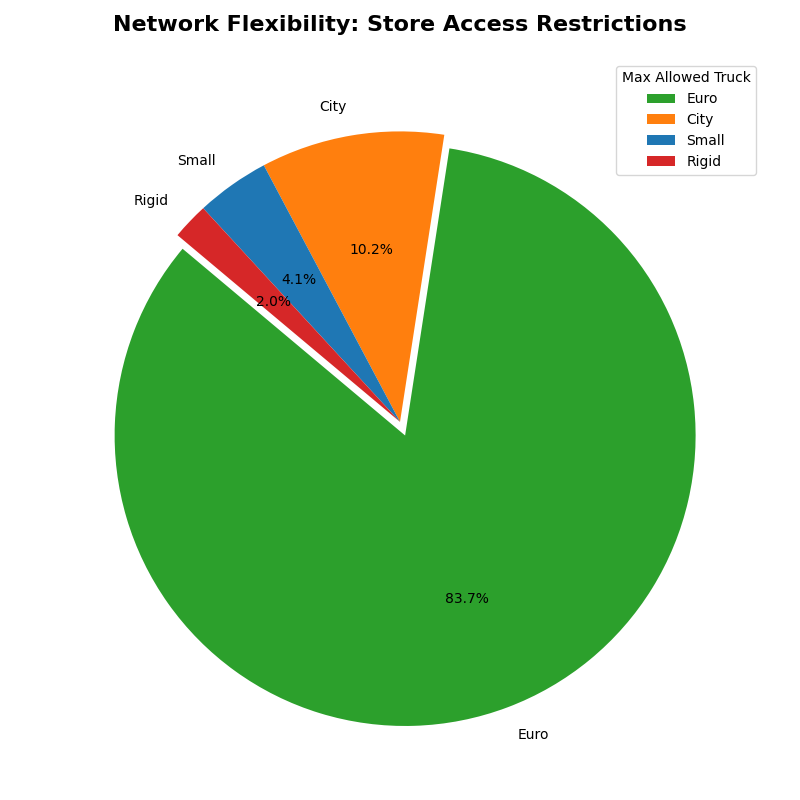
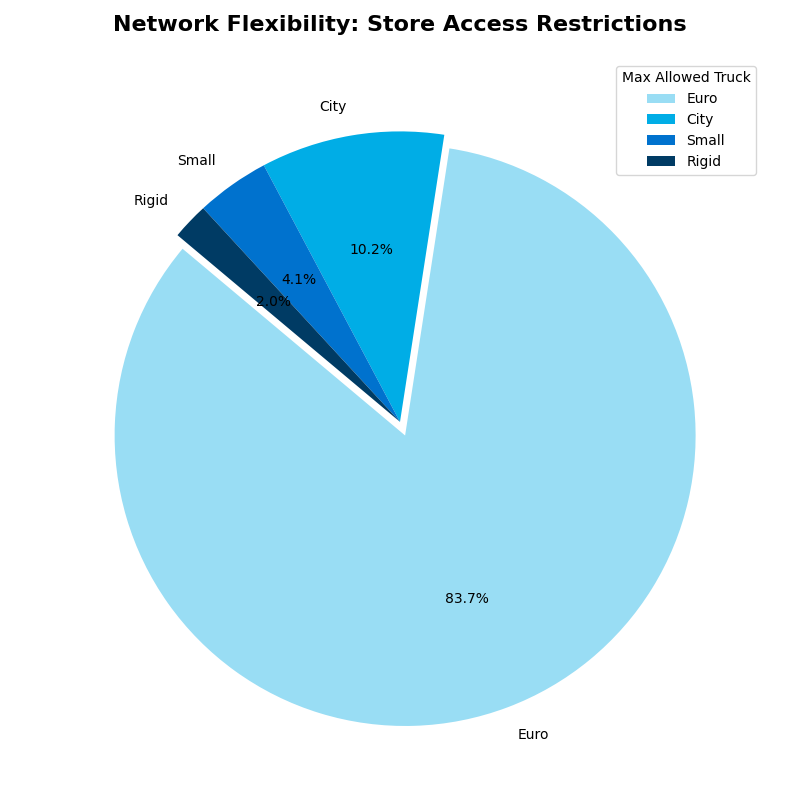
updated pie chart colors

diff --git a/old situation analysis.py b/old situation analysis.py
@@ -238,7 +238,7 @@ type_counts = stores_df['Max. allowed truck type'].value_counts()
 
 plt.figure(figsize=(8, 8))
 plt.pie(type_counts, labels=type_counts.index, autopct='%1.1f%%', startangle=140, 
-        colors=['#2ca02c', '#ff7f0e', '#1f77b4', '#d62728'],
+        colors=['#99DDF4', '#00ADE6', '#0072CE', '#003B64'],
         explode=[0.05, 0, 0, 0], shadow=False)
 plt.title('Network Flexibility: Store Access Restrictions', fontsize=16, fontweight='bold', pad=20)
 plt.legend(title='Max Allowed Truck', loc="best")
